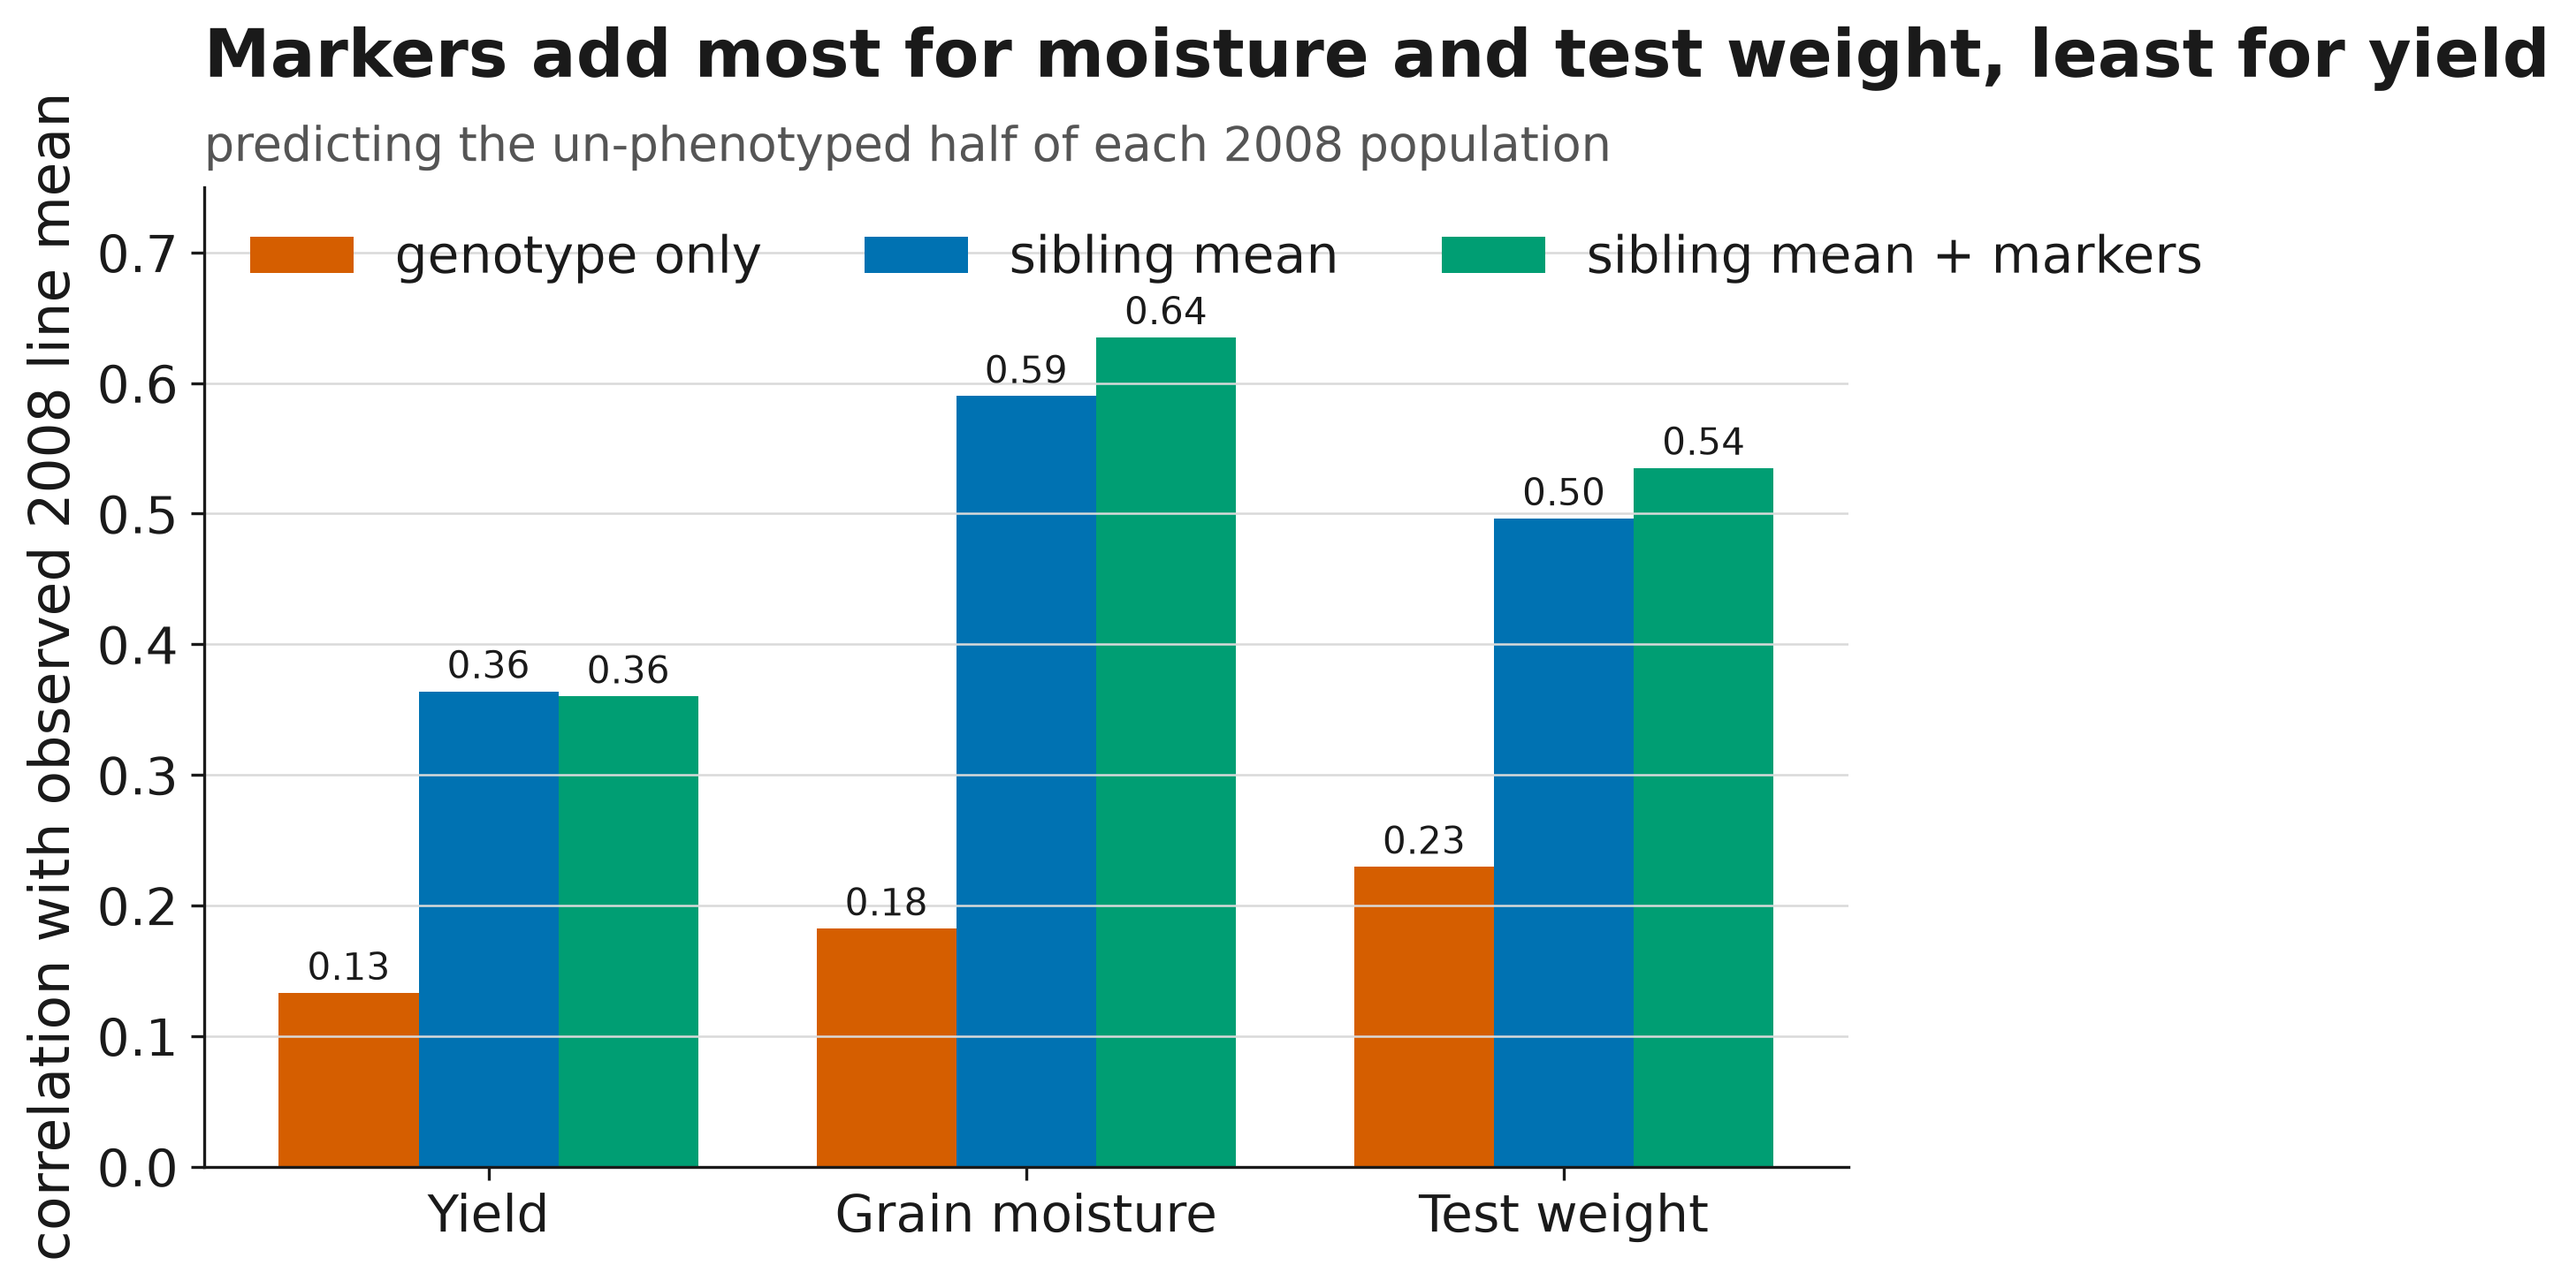
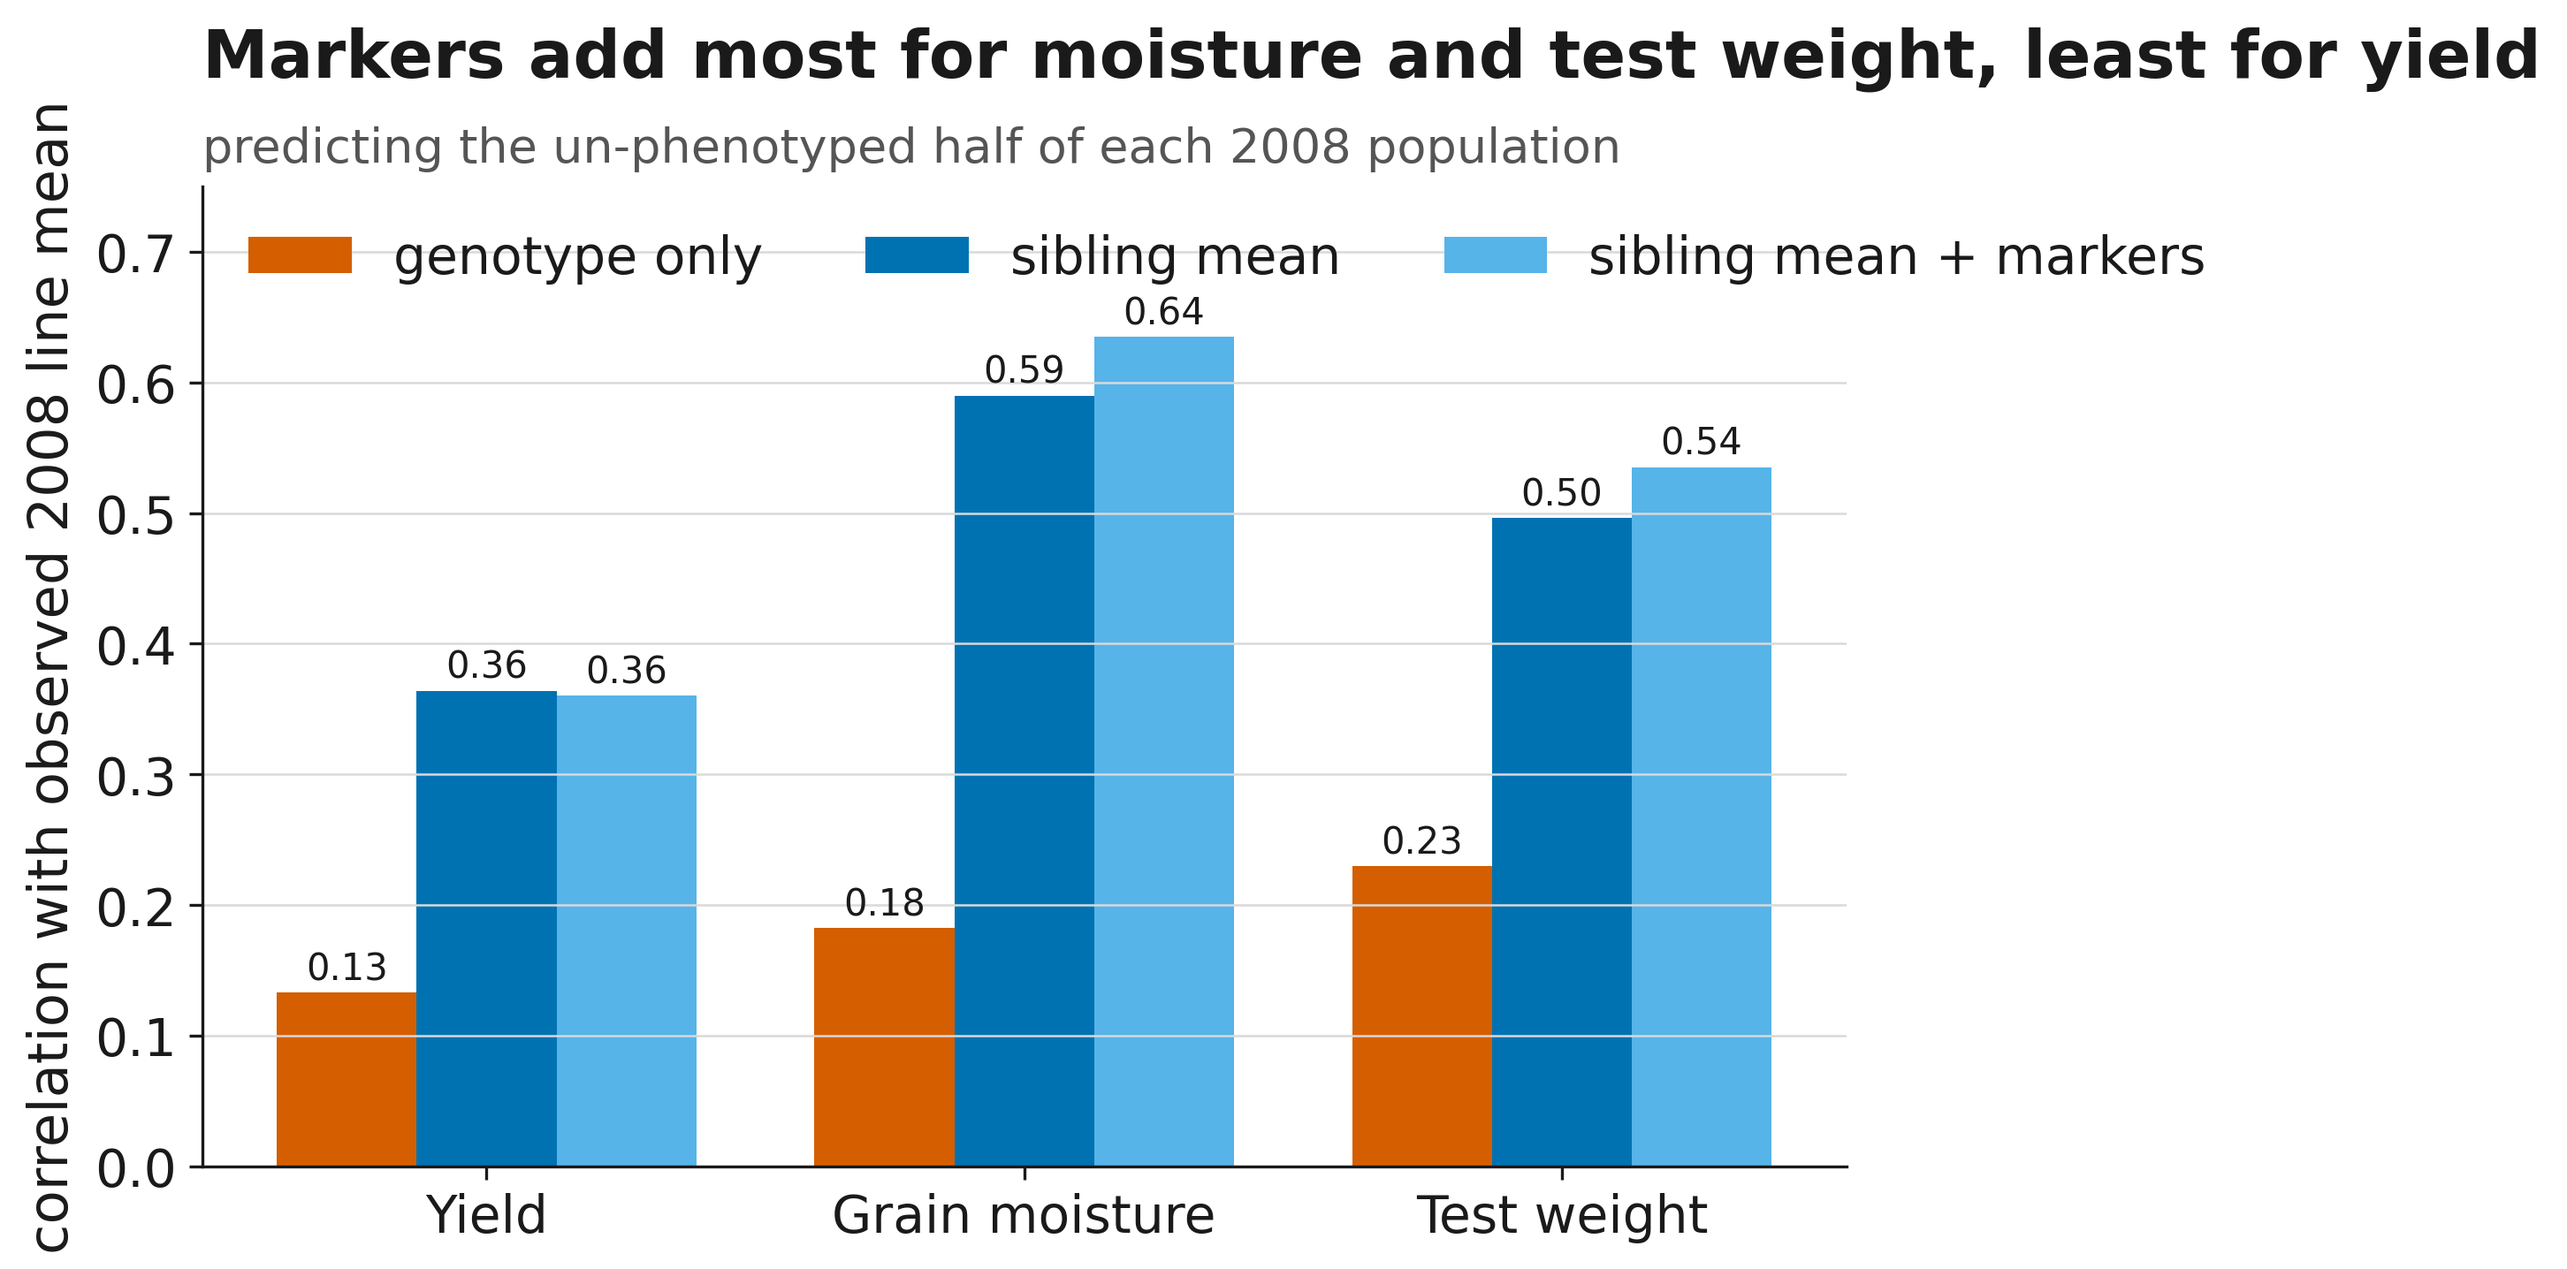
Deck v2: redraw the two deck figures, fix the 2008 family count (157, not 998)

diff --git a/docs/story.html b/docs/story.html
@@ -116,7 +116,7 @@ footer{padding-block:30px 50px;color:var(--muted);font-size:14px;border-top:1px 
   <p class="eyebrow">The decision</p>
   <h2>January 2008. The plots are cut. Which lines go in the ground?</h2>
   <div class="prose">
-    <p>A maize breeding program is about to plant its 2008 season. It has 15,968 new inbred lines from 998 biparental families, all genotyped, ready to be crossed to testers and put in the field. Behind them sit seven years of testcross data: 2001 to 2007, about a million plots across 1,185 year-by-location environments, with 84 weather and soil covariates per environment and one shared 2,911-SNP marker panel.</p>
+    <p>A maize breeding program is about to plant its 2008 season. It has 15,968 new inbred lines from 157 biparental families, all genotyped, ready to be crossed to testers and put in the field. Behind them sit seven years of testcross data: 2001 to 2007, about a million plots across 1,185 year-by-location environments, with 84 weather and soil covariates per environment and one shared 2,911-SNP marker panel.</p>
     <p>Then the field budget is cut. There are no longer enough plots to grow every candidate. Bayer's question to us was in two parts, and they are answered at two different times.</p>
   </div>
   <div class="tablewrap"><table>
@@ -130,7 +130,7 @@ footer{padding-block:30px 50px;color:var(--muted);font-size:14px;border-top:1px 
   </div>
   <div class="stats">
     <div class="stat"><div class="v">15,968</div><div class="k">candidate lines about to be planted in 2008</div></div>
-    <div class="stat"><div class="v">998</div><div class="k">biparental families they belong to</div></div>
+    <div class="stat"><div class="v">157</div><div class="k">biparental families they belong to</div></div>
     <div class="stat"><div class="v">1.02M</div><div class="k">historical testcross plots, 2001 to 2007</div></div>
     <div class="stat"><div class="v">1,185</div><div class="k">year × location environments</div></div>
     <div class="stat"><div class="v">2,911</div><div class="k">SNP markers, one shared panel</div></div>

diff --git a/src/figures_results.py b/src/figures_results.py
@@ -1,10 +1,15 @@
 """Deck figures from the real stage 2 and stage 3 results (no dataset needed, reads results_summary/).
 
     python src/figures_results.py
+
+Deck v2 changes (Sep 19): the two family-based bars share one hue and the two genome-based bars share
+another, with group labels under the axis; the sampling curve shows the family-mean curve only, labels the
+genotype-only point, and carries the "first 7.8k plots vs the next 31k" message in the annotations.
 """
 import sys
 from pathlib import Path
 import matplotlib.pyplot as plt
+import matplotlib.transforms as mtransforms
 import numpy as np
 import pandas as pd
 
@@ -15,22 +20,37 @@ apply_theme()
 S2 = pd.read_csv("results_summary/stage2_results.csv")
 S3 = pd.read_csv("results_summary/stage3_schemes.csv")
 S3b = pd.read_csv("results_summary/stage3b_two_stage.csv")
+S4 = pd.read_csv("results_summary/stage4_sampling_curve.csv")
+
+# One meaning per hue, everywhere: warm = the genome, blue = the family.
+GENOME, GENOME_PLUS = PALETTE[5], PALETTE[1]      # vermillion, orange
+FAMILY, FAMILY_PLUS = PALETTE[0], PALETTE[4]      # blue, light blue
+MUTED = "#555555"
 
 # ---------- Figure 1: what you know about a line vs how well you can rank it (yield) ----------
 yld = S3[S3.trait == "YLD"].iloc[0]
 two = S3b[(S3b.trait == "YLD") & (S3b.scheme == "two_stage")].iloc[0]
+n_pred = int(S4[(S4.trait == "YLD") & (S4.scheme == "sib") & (S4.frac == 0.5)].n_pred.iloc[0])
 levels = ["genotype only", "genotype,\nsiblings in training", "sibling mean,\nno markers", "sibling mean +\nfamily markers"]
 r = [yld.r_newyear, yld.r_sib_augmented, yld.r_sibmean, two.r]
 gain = [yld.gain_newyear, yld.gain_sib_augmented, yld.gain_sibmean, two.gain]
 gmax = yld.gain_max
-fig, ax = plt.subplots(figsize=(10, 5.5))
-cols = [PALETTE[5], PALETTE[1], PALETTE[0], PALETTE[2]]
+fig, ax = plt.subplots(figsize=(10, 5.8))
+cols = [GENOME, GENOME_PLUS, FAMILY, FAMILY_PLUS]
 bars = ax.bar(levels, gain, color=cols, width=0.62)
-ax.axhline(gmax, color="#555555", lw=1, ls="--"); ax.text(3.4, gmax + 0.25, f"perfect foresight +{gmax:.1f}", ha="right", fontsize=11, color="#555555")
+ax.axhline(gmax, color=MUTED, lw=1, ls="--")
+ax.text(3.4, gmax + 0.25, f"perfect foresight +{gmax:.1f}", ha="right", fontsize=11, color=MUTED)
 for b, rr, g in zip(bars, r, gain):
     ax.text(b.get_x() + b.get_width() / 2, g + 0.2, f"+{g:.1f} bu/ac\nr = {rr:.2f}", ha="center", va="bottom", fontsize=11)
 ax.set_ylabel("gain, top 20% advanced (bu/ac)"); ax.set_ylim(0, gmax + 2.5)
-title(ax, "Half a family's plots beat 2,911 SNPs for ranking the other half", "2008 lines, predicted from 2000-2007 plus the phenotyped siblings")
+# group labels under the tick labels: the two ways of using the genome, the two ways of using the family
+trans = mtransforms.blended_transform_factory(ax.transData, ax.transAxes)
+for x0, x1, lab, c in ((-0.31, 1.31, "what the genome knows", GENOME), (1.69, 3.31, "what the family knows", FAMILY)):
+    ax.plot([x0, x1], [-0.175, -0.175], transform=trans, color=c, lw=1.5, clip_on=False)
+    ax.text((x0 + x1) / 2, -0.20, lab, transform=trans, ha="center", va="top", fontsize=11.5, color=c, fontweight="bold")
+title(ax, "Half a family's plots beat 2,911 SNPs for ranking the other half",
+      f"same {n_pred:,} untested 2008 lines; predicted from earlier years plus the phenotyped siblings")
+fig.subplots_adjust(bottom=0.24)
 save(fig, "fig_information_vs_gain"); plt.close(fig)
 
 # ---------- Figure 2: accuracy by trait and scheme ----------
@@ -40,9 +60,9 @@ sib = [S3b[(S3b.trait == t) & (S3b.scheme == "sib")].r.iloc[0] for t in tr]
 twos = [S3b[(S3b.trait == t) & (S3b.scheme == "two_stage")].r.iloc[0] for t in tr]
 x = np.arange(len(tr)); w = 0.26
 fig, ax = plt.subplots(figsize=(8, 4.8))
-ax.bar(x - w, new, w, label="genotype only", color=PALETTE[5])
-ax.bar(x, sib, w, label="sibling mean", color=PALETTE[0])
-ax.bar(x + w, twos, w, label="sibling mean + markers", color=PALETTE[2])
+ax.bar(x - w, new, w, label="genotype only", color=GENOME)
+ax.bar(x, sib, w, label="sibling mean", color=FAMILY)
+ax.bar(x + w, twos, w, label="sibling mean + markers", color=FAMILY_PLUS)
 for i, (a, b, c) in enumerate(zip(new, sib, twos)):
     for dx, v in ((-w, a), (0, b), (w, c)): ax.text(i + dx, v + 0.01, f"{v:.2f}", ha="center", fontsize=10)
 ax.set_xticks(x, ["Yield", "Grain moisture", "Test weight"]); ax.set_ylabel("correlation with observed 2008 line mean"); ax.set_ylim(0, 0.75)
@@ -56,7 +76,7 @@ plots_full = 77353
 scen = [("markers only\n0 plots", 0.13, 0), ("sample 1/2 of each family\n~39k plots", 0.36, 0.5), ("full trial\n77k plots", 0.50, 1.0)]
 fig, ax = plt.subplots(figsize=(8, 4.8))
 xs = [s[2] * plots_full / 1000 for s in scen]; ys = [i20 * s[1] * sd_true for s in scen]
-ax.plot(xs, ys, marker="o", ms=9, color=PALETTE[0], lw=2)
+ax.plot(xs, ys, marker="o", ms=9, color=FAMILY, lw=2)
 for (lab, rr, f), xx, yy in zip(scen, xs, ys):
     ax.annotate(f"{lab}\nr = {rr:.2f} → +{yy:.1f} bu/ac", (xx, yy), textcoords="offset points", xytext=(12, -40 if f == 1 else (14 if f == 0 else 10)), fontsize=10.5)
 ax.set_xlabel("field plots used in 2008 (thousands)"); ax.set_ylabel("expected gain, top 20% advanced (bu/ac)")
@@ -67,7 +87,7 @@ save(fig, "fig_plots_vs_gain"); plt.close(fig)
 # ---------- Figure 4: year-to-year accuracy vs connectedness ----------
 conn = {2007: 0.15, 2008: 0.29}
 fig, ax = plt.subplots(figsize=(6.5, 4.5))
-for yr, c in zip((2007, 2008), (PALETTE[1], PALETTE[0])):
+for yr, c in zip((2007, 2008), (GENOME_PLUS, FAMILY)):
     rr = S2[(S2.year == yr) & (S2.trait == "YLD")].r_markers.iloc[0]
     ax.scatter(conn[yr], rr, s=160, color=c, zorder=3); ax.annotate(f"predict {yr}", (conn[yr], rr), xytext=(10, -4), textcoords="offset points", fontsize=11)
 ax.set_xlabel("share of new-year populations with both parents seen before"); ax.set_ylabel("marker accuracy, yield (r)")
@@ -77,24 +97,41 @@ save(fig, "fig_year_connectedness"); plt.close(fig)
 print("wrote figures/fig_information_vs_gain.png, fig_accuracy_by_trait.png, fig_plots_vs_gain.png, fig_year_connectedness.png")
 
 # ---------- Figure 5: the sampling curve (real, measured) ----------
-S4 = pd.read_csv("results_summary/stage4_sampling_curve.csv")
 yl = S4[S4.trait == "YLD"]
 g0 = S3[S3.trait == "YLD"].iloc[0]
-fig, ax = plt.subplots(figsize=(9.5, 5.5))
-for scheme, lab, c in (("sib", "family mean only", PALETTE[0]), ("two", "family mean + markers", PALETTE[2])):
-    d = yl[yl.scheme == scheme].sort_values("frac")
-    ax.plot(d.plots_used / 1000, d.gain, marker="o", ms=7, lw=2, color=c, label=lab)
-ax.scatter([0], [g0.gain_newyear], s=120, color=PALETTE[5], zorder=4, label="genotype only, no plots")
-ax.axhline(yl.gain_max.mean(), color="#555555", lw=1, ls="--"); ax.text(58, yl.gain_max.mean() + 0.25, "perfect foresight", ha="right", fontsize=11, color="#555555")
-ax.axvline(77.353, color="#999999", lw=1, ls=":"); ax.text(76, 0.4, "full 2008 trial\n77k plots", ha="right", fontsize=10, color="#555555")
-d10 = yl[(yl.scheme == "sib") & (yl.frac == 0.10)].iloc[0]
-ax.annotate(f"10% of each family\n{d10.plots_used/1000:.1f}k plots → +{d10.gain:.1f} bu/ac", (d10.plots_used / 1000, d10.gain), xytext=(14, -46), textcoords="offset points", fontsize=11,
-            arrowprops=dict(arrowstyle="-", color="#555555", lw=0.8))
-for frac in (0.25, 0.5, 0.75):
-    pass
-ax.set_xlabel("field plots spent on the 2008 candidates (thousands)"); ax.set_ylabel("gain, top 20% advanced (bu/ac)")
-ax.set_xlim(-2, 80); ax.set_ylim(0, yl.gain_max.mean() + 2)
-ax.legend(loc="center right")
-title(ax, "Phenotyping 10% of each family captures most of the achievable gain", "2008 candidates, every family sampled (stratified), rest predicted; mean of 3 draws")
+d = yl[yl.scheme == "sib"].sort_values("frac")
+d10 = d[d.frac == 0.10].iloc[0]; d50 = d[d.frac == 0.50].iloc[0]
+x10, x50 = d10.plots_used / 1000, d50.plots_used / 1000
+ceiling = yl.gain_max.mean()
+fig, ax = plt.subplots(figsize=(10, 5.6))
+# the curve: family mean only. The marker term adds nothing for yield on this curve, so it stays off the slide.
+ax.plot(d.plots_used / 1000, d.gain, marker="o", ms=7, lw=2.2, color=FAMILY, zorder=3)
+ax.text(d.plots_used.iloc[-1] / 1000 + 1.2, d.gain.iloc[-1], "family mean of the\nphenotyped siblings", va="center", fontsize=10.5, color=FAMILY)
+# the genotype-only point, no plots
+ax.scatter([0], [g0.gain_newyear], s=130, color=GENOME, zorder=4)
+ax.text(1.6, g0.gain_newyear - 0.95, f"genotype only, no plots: +{g0.gain_newyear:.1f}", fontsize=11, color=GENOME, va="center")
+# the first 7.8k plots buy most of it
+ax.annotate("", xy=(x10 - 0.5, d10.gain - 0.15), xytext=(0.4, g0.gain_newyear + 0.2),
+            arrowprops=dict(arrowstyle="->", color=MUTED, lw=1.1, connectionstyle="arc3,rad=-0.28"))
+ax.text(0.6, 5.35, f"+{round(d10.gain, 1) - round(g0.gain_newyear, 1):.1f} bu/ac from the\nfirst {d10.plots_used/1000:.1f}k plots", fontsize=11, color="#1A1A1A", va="bottom")
+# the next 31k plots buy the last 0.4
+yb = 7.35
+ax.plot([x10, x50], [yb, yb], color="#1A1A1A", lw=1.2)
+ax.plot([x10, x10], [yb - 0.55, yb], color="#1A1A1A", lw=1.2); ax.plot([x50, x50], [yb - 0.55, yb], color="#1A1A1A", lw=1.2)
+ax.text((x10 + x50) / 2, yb + 0.3, f"{x50 / x10:.0f}× the plots for the last +{round(d50.gain, 1) - round(d10.gain, 1):.1f} bu/ac",
+        ha="center", va="bottom", fontsize=12.5, fontweight="bold", color="#1A1A1A")
+# the two points the talk names
+ax.annotate(f"10% of every family\n{int(d10.plots_used):,} plots → +{d10.gain:.1f}", (x10, d10.gain), xytext=(x10 + 1.6, 3.85),
+            textcoords="data", fontsize=11, va="top", arrowprops=dict(arrowstyle="-", color=MUTED, lw=0.8))
+ax.annotate(f"50% of every family\n{int(d50.plots_used):,} plots → +{d50.gain:.1f}", (x50, d50.gain), xytext=(x50 + 1.6, 3.85),
+            textcoords="data", fontsize=11, va="top", arrowprops=dict(arrowstyle="-", color=MUTED, lw=0.8))
+# ceiling and the full trial
+ax.axhline(ceiling, color=MUTED, lw=1, ls="--")
+ax.text(0.6, ceiling + 0.25, "perfect foresight: if you knew every 2008 result in advance", fontsize=11, color=MUTED)
+ax.axvline(77.353, color="#999999", lw=1, ls=":"); ax.text(76.2, 0.45, "full 2008 trial\n77k plots", ha="right", fontsize=10, color=MUTED)
+ax.set_xlabel("field plots spent on the 2008 candidates (thousands)"); ax.set_ylabel("realised 2008 gain, top 20% advanced (bu/ac)")
+ax.set_xlim(-2, 80); ax.set_ylim(0, ceiling + 1.6)
+title(ax, "Phenotyping 10% of each family captures most of the achievable gain",
+      "2008 candidates, every family sampled (stratified), the rest predicted from the family mean; mean of 3 draws")
 save(fig, "fig_sampling_curve"); plt.close(fig)
 print("wrote figures/fig_sampling_curve.png")

diff --git a/README.md b/README.md
@@ -12,7 +12,7 @@
 ## The problem
 
 January 2008 at a maize breeding program. The field budget has been cut and there are not enough plots to
-grow every candidate. 15,968 new inbred lines from 998 biparental families are genotyped and ready to be
+grow every candidate. 15,968 new inbred lines from 157 biparental families are genotyped and ready to be
 crossed to testers and planted. Behind them sit seven years of testcross data (2001 to 2007, about a million
 plots across 1,185 year by location environments) and one shared 2,911-SNP panel.
 
